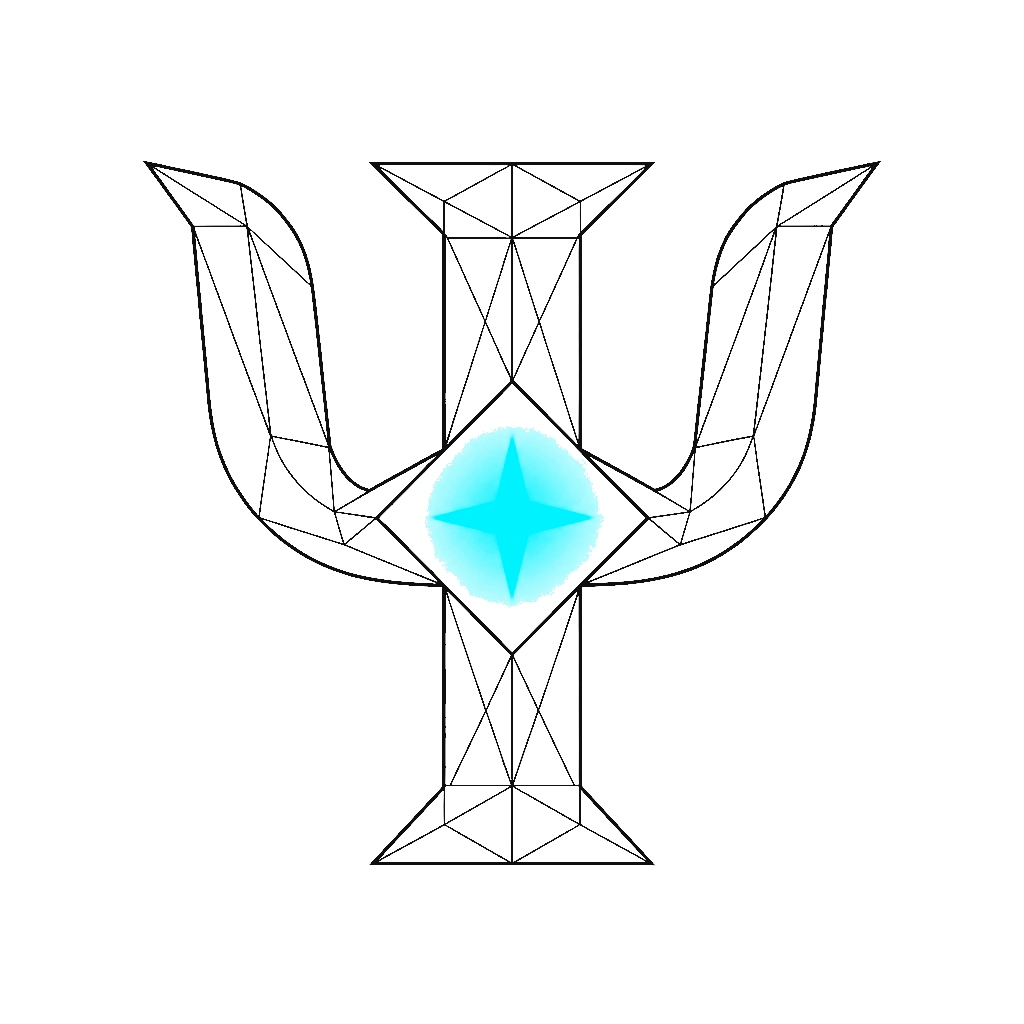
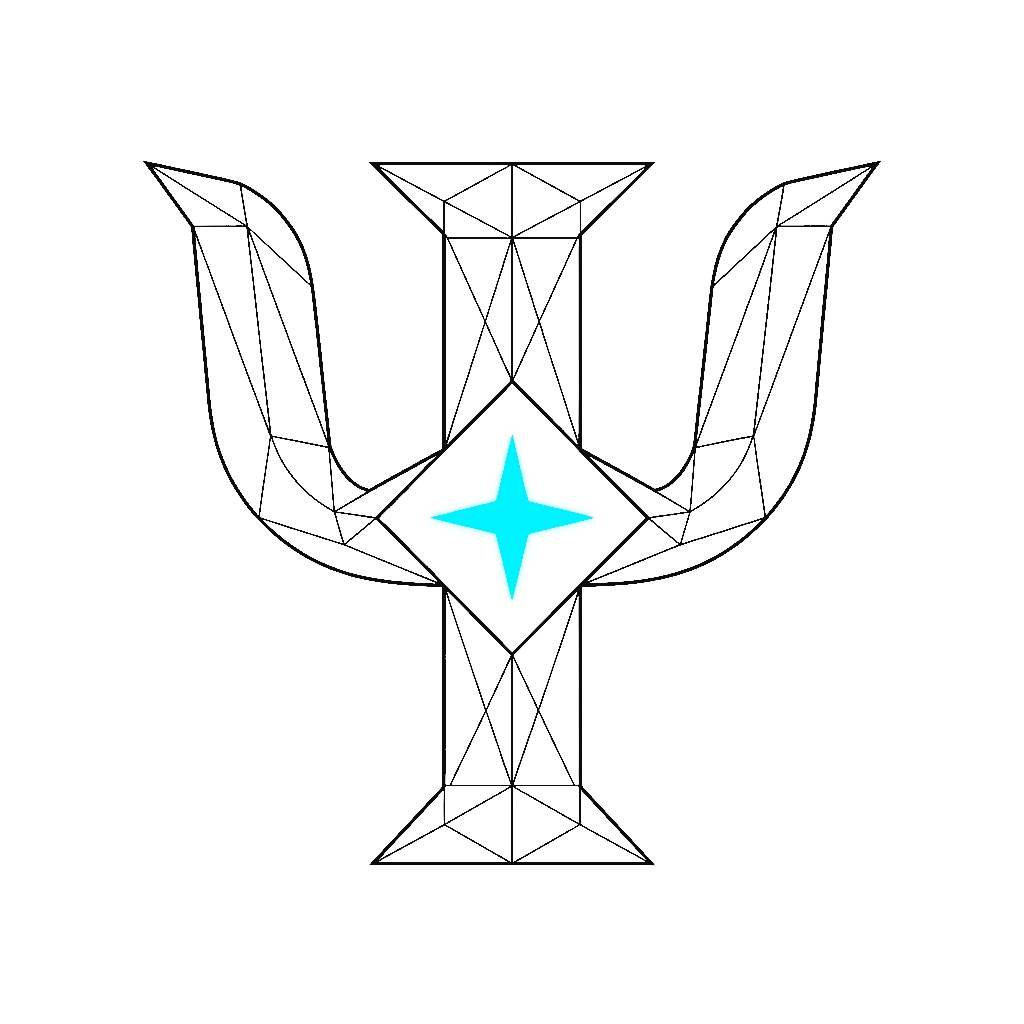
feat: tune slight natural edge glow around the beam on white assets

Changed region(s): [[0.4062, 0.4062, 0.5938, 0.5938]]

diff --git a/src/components/brand/StudioLogo.tsx b/src/components/brand/StudioLogo.tsx
@@ -58,8 +58,8 @@ export const StudioLogoMark: React.FC<{
       >
         <defs>
           <filter id={`star-glow-${theme}`} x="-60%" y="-60%" width="220%" height="220%">
-            <feGaussianBlur stdDeviation={isLight ? 2.5 : 3} result="blur" />
-            <feFlood floodColor="#00F2FE" floodOpacity={isLight ? "0.65" : "0.9"} result="glowColor" />
+            <feGaussianBlur stdDeviation={isLight ? 1.8 : 3} result="blur" />
+            <feFlood floodColor="#00F2FE" floodOpacity={isLight ? "0.45" : "0.9"} result="glowColor" />
             <feComposite in="glowColor" in2="blur" operator="in" result="coloredBlur" />
             <feMerge>
               <feMergeNode in="coloredBlur" />
